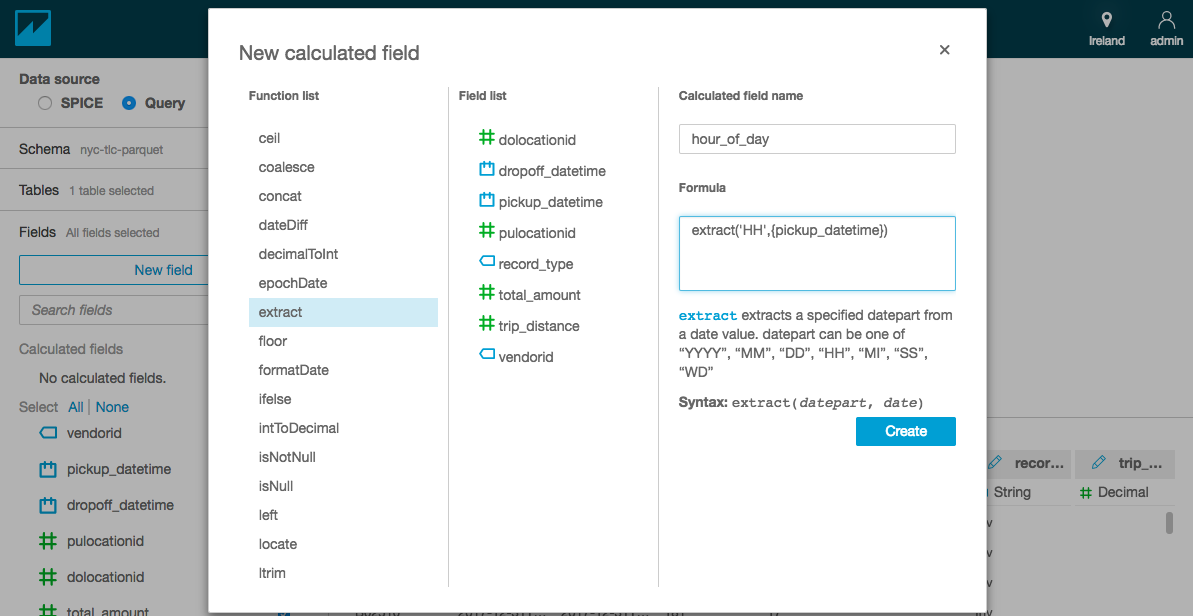
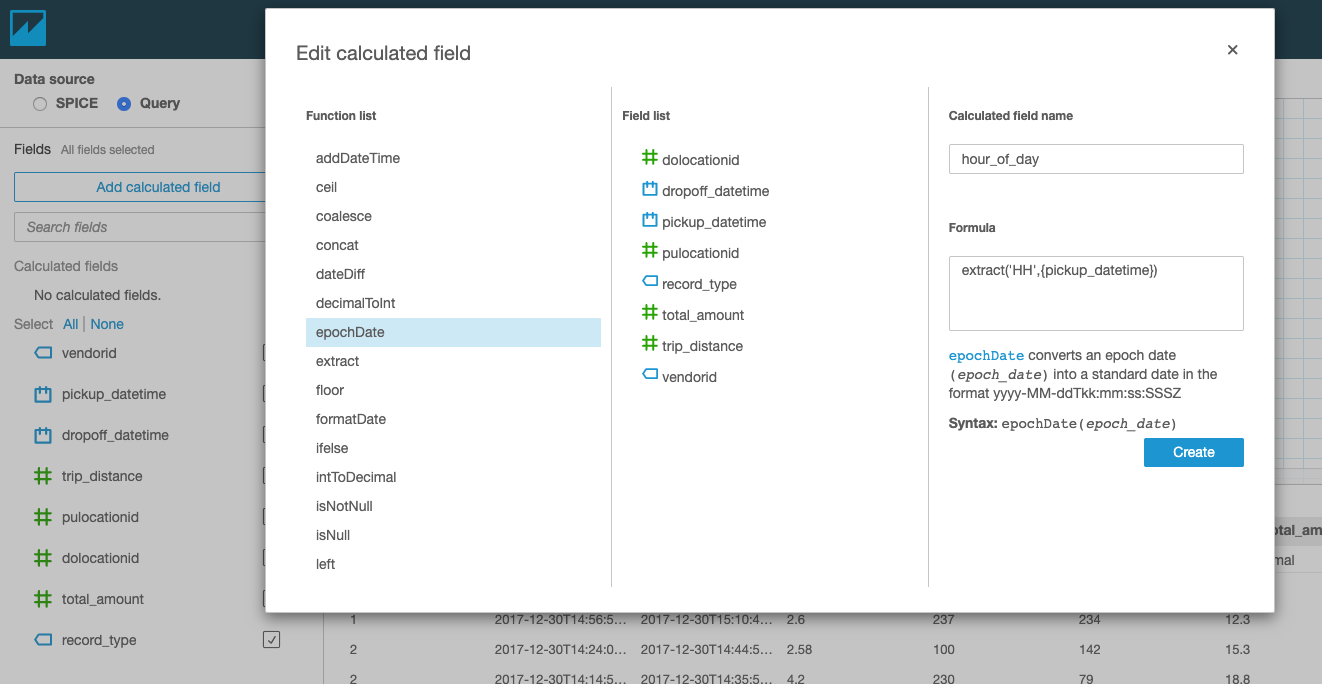
Fixes in the lab5 and cache

diff --git a/05-visualization.md b/05-visualization.md
@@ -19,7 +19,7 @@ The last step to complete our serveless analytics journey is now to visualize th
 
 	![QuickSight enable data bucket](images/21b-quicksight-select-buckets.png)
 
-	Click **Select buckets** and proceed to provision your QuickSight account.
+	Click **Select buckets** and proceed to provision your QuickSight account and click **Finish**.
 	
 5. Once your QuickSight account is provisioned you can always refine/change access to resources by clicking the <img src=images/21d-quicksight-manage-icon.png width=12px> icon and **Manage QuickSight**
 
@@ -46,7 +46,7 @@ The last step to complete our serveless analytics journey is now to visualize th
 
 	![QuickSight create data set](images/26a-quicksight-dataset-edition.png)
 
-9. Add a calculated field by selecting **Fields** and clicking **New field**. We want a field called `hour_of_day` that we will compute extracting the hour from the `pickup_datetime` source field. Leverage Amazon QuickSight built-in functions for that: `extract('HH',{pickup_datetime})`
+9. In the *Fields* section in the left bar, create a new calculated clicking **Add calculated field**. We want a field called `hour_of_day` that we will compute extracting the hour from the `pickup_datetime` source field. Leverage Amazon QuickSight built-in functions for that: `extract('HH',{pickup_datetime})`
 
 	![QuickSight create data set](images/26b-quicksight-dataset-edition.png)
 	
@@ -56,7 +56,7 @@ The last step to complete our serveless analytics journey is now to visualize th
 
 	![QuickSight line chart](images/28a-quicksight-line-chart.png)
 	
-	If you see something like the above is because your dataset contains a few outlier records with dates outside the range. Use a filter to get a better visualization. Click on the <img src=images/28b-quicksight-filter-icon.png width=12px> icon and create a filter with the following settings:
+	If you see something like the above is because your dataset contains a few outlier records with dates outside the range. Use a filter to get a better visualization. Click on the <img src=images/28b-quicksight-filter-icon.png width=12px> icon and create a filter for *pickup_datetime* with the following settings:
 	
 	* *All visuals*
 	* Filter type: *Time range*, *Between*
